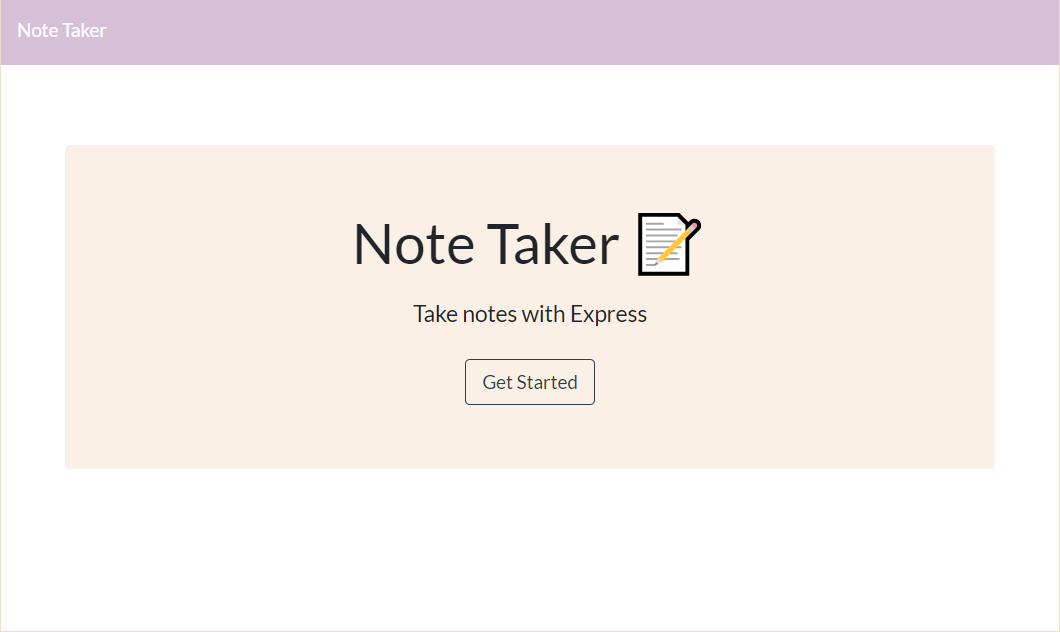
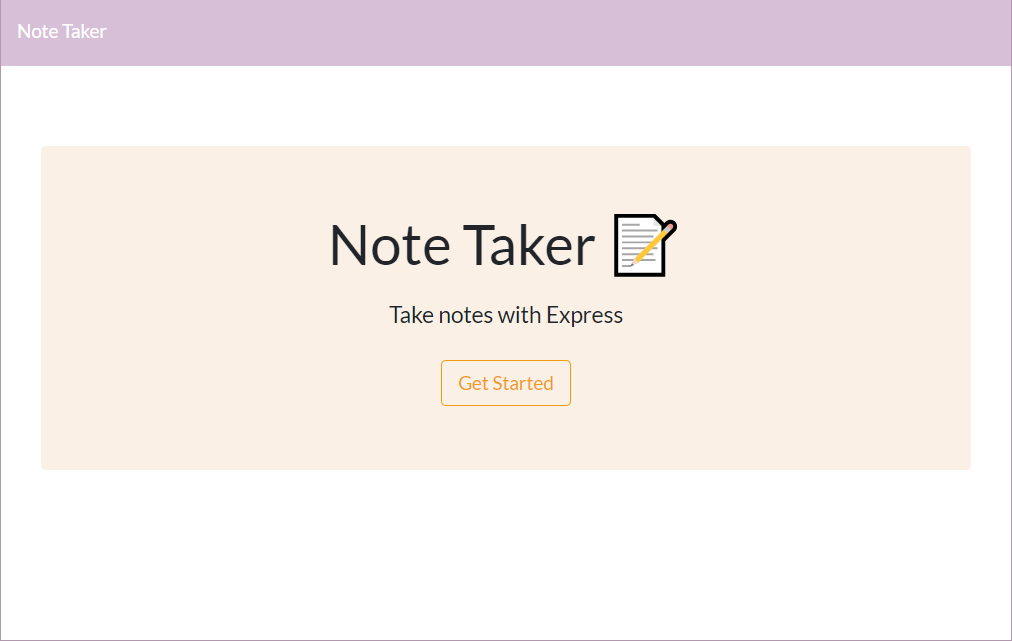
changed btn color

diff --git a/public/index.html b/public/index.html
@@ -19,7 +19,7 @@
     <div style="margin-top: 80px;" class="jumbotron text-center">
       <h1 class="display-4">Note Taker <span role="img" aria-label="Memo">📝</span></h1>
       <h4 class="mt-4">Take notes with Express</h4>
-      <a class="btn btn-outline-primary btn-lg mt-4" href="/notes" role="button">Get Started</a>
+      <a class="btn btn-outline-warning btn-lg mt-4" href="/notes" role="button">Get Started</a>
     </div>
   </div>
   <script src="/assets/js/index.js"></script>
